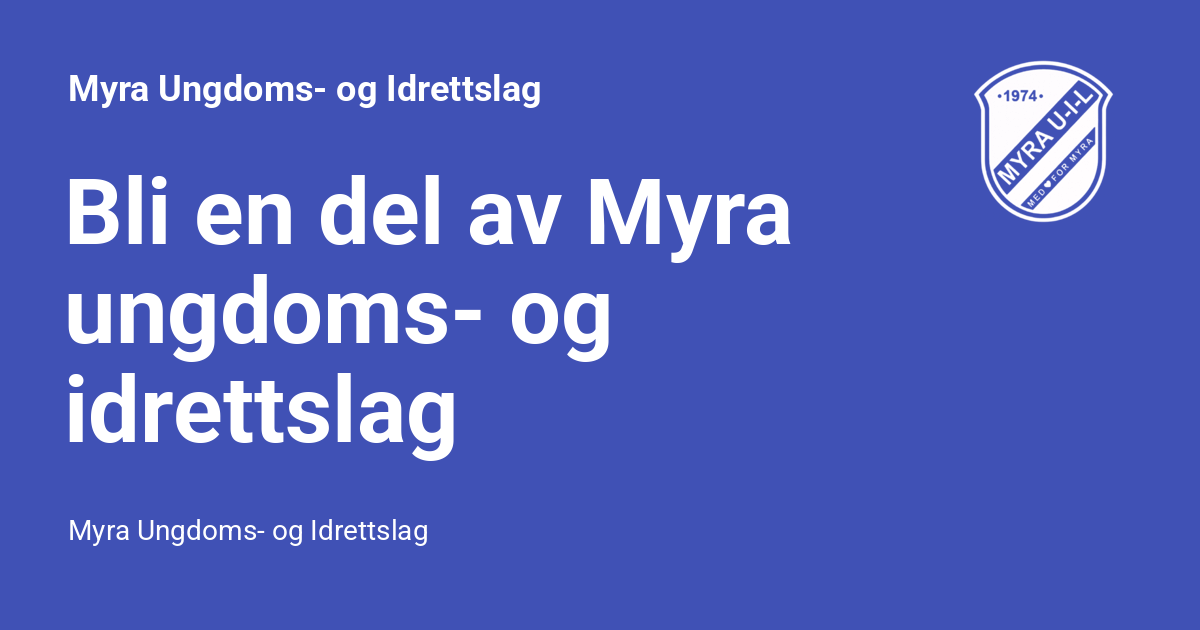
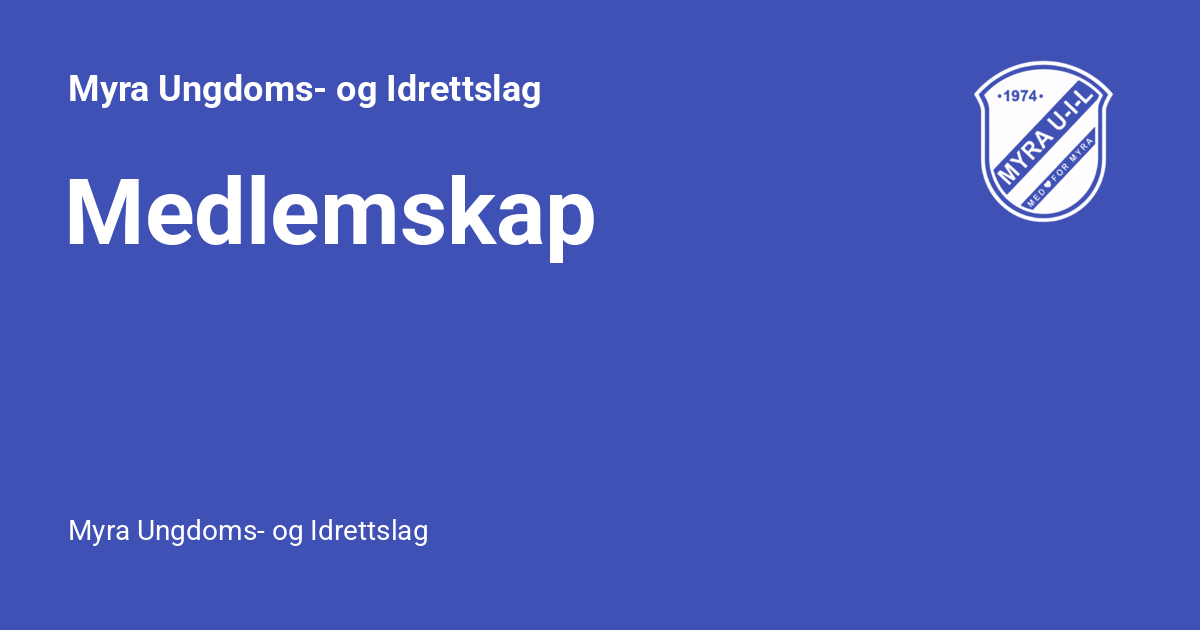
Deployed 459e363 with MkDocs version: 1.6.1

Changed region(s): [[0.0617, 0.2714, 0.6783, 0.4222], [0.0308, 0.4222, 0.5242, 0.573], [0.0308, 0.573, 0.4008, 0.754]]

diff --git a/om/medlemskap/index.html b/om/medlemskap/index.html
@@ -24,7 +24,7 @@
     
     
       
-        <title>Bli en del av Myra ungdoms- og idrettslag - Myra Ungdoms- og Idrettslag</title>
+        <title>Medlemskap - Myra Ungdoms- og Idrettslag</title>
       
     
     
@@ -61,7 +61,7 @@
       
         <meta  property="og:type"  content="website" >
       
-        <meta  property="og:title"  content="Bli en del av Myra ungdoms- og idrettslag - Myra Ungdoms- og Idrettslag" >
+        <meta  property="og:title"  content="Medlemskap - Myra Ungdoms- og Idrettslag" >
       
         <meta  property="og:description"  content="Myra Ungdoms- og Idrettslag" >
       
@@ -77,7 +77,7 @@
       
         <meta  name="twitter:card"  content="summary_large_image" >
       
-        <meta  name="twitter:title"  content="Bli en del av Myra ungdoms- og idrettslag - Myra Ungdoms- og Idrettslag" >
+        <meta  name="twitter:title"  content="Medlemskap - Myra Ungdoms- og Idrettslag" >
       
         <meta  name="twitter:description"  content="Myra Ungdoms- og Idrettslag" >
       
@@ -104,7 +104,7 @@
     <div data-md-component="skip">
       
         
-        <a href="#bli-en-del-av-myra-ungdoms-og-idrettslag" class="md-skip">
+        <a href="#medlemskap" class="md-skip">
           Skip to content
         </a>
       
@@ -137,7 +137,7 @@
         <div class="md-header__topic" data-md-component="header-topic">
           <span class="md-ellipsis">
             
-              Bli en del av Myra ungdoms- og idrettslag
+              Medlemskap
             
           </span>
         </div>
@@ -722,7 +722,7 @@
           
   
   <span class="md-ellipsis">
-    Bli en del av Myra ungdoms- og idrettslag
+    Medlemskap
     
   </span>
   
@@ -734,7 +734,7 @@
         
   
   <span class="md-ellipsis">
-    Bli en del av Myra ungdoms- og idrettslag
+    Medlemskap
     
   </span>
   
@@ -1072,7 +1072,7 @@
   
 
 
-<h1 id="bli-en-del-av-myra-ungdoms-og-idrettslag">Bli en del av Myra ungdoms- og idrettslag<a class="headerlink" href="#bli-en-del-av-myra-ungdoms-og-idrettslag" title="Permanent link">&para;</a></h1>
+<h1 id="medlemskap">Medlemskap<a class="headerlink" href="#medlemskap" title="Permanent link">&para;</a></h1>
 <p>Et idrettslag for alle! Bli medlem enkelt og raskt via Norges idrettsforbunds digitale innmeldingsløsning.</p>
 <h2 id="i-lsningen-kan-du">I løsningen kan du:<a class="headerlink" href="#i-lsningen-kan-du" title="Permanent link">&para;</a></h2>
 <ul>

diff --git a/404.html b/404.html
@@ -669,7 +669,7 @@
         
   
   <span class="md-ellipsis">
-    Bli en del av Myra ungdoms- og idrettslag
+    Medlemskap
     
   </span>
   

diff --git a/aktiviteter/barneidrett/index.html b/aktiviteter/barneidrett/index.html
@@ -723,7 +723,7 @@
         
   
   <span class="md-ellipsis">
-    Bli en del av Myra ungdoms- og idrettslag
+    Medlemskap
     
   </span>
   

diff --git a/aktiviteter/bli-sterk/index.html b/aktiviteter/bli-sterk/index.html
@@ -723,7 +723,7 @@
         
   
   <span class="md-ellipsis">
-    Bli en del av Myra ungdoms- og idrettslag
+    Medlemskap
     
   </span>
   

diff --git a/aktiviteter/fotball/index.html b/aktiviteter/fotball/index.html
@@ -723,7 +723,7 @@
         
   
   <span class="md-ellipsis">
-    Bli en del av Myra ungdoms- og idrettslag
+    Medlemskap
     
   </span>
   

diff --git a/aktiviteter/frisbeegolf/index.html b/aktiviteter/frisbeegolf/index.html
@@ -723,7 +723,7 @@
         
   
   <span class="md-ellipsis">
-    Bli en del av Myra ungdoms- og idrettslag
+    Medlemskap
     
   </span>
   

diff --git a/aktiviteter/index.html b/aktiviteter/index.html
@@ -711,7 +711,7 @@
         
   
   <span class="md-ellipsis">
-    Bli en del av Myra ungdoms- og idrettslag
+    Medlemskap
     
   </span>
   

diff --git a/aktiviteter/innebandy/index.html b/aktiviteter/innebandy/index.html
@@ -723,7 +723,7 @@
         
   
   <span class="md-ellipsis">
-    Bli en del av Myra ungdoms- og idrettslag
+    Medlemskap
     
   </span>
   

diff --git a/aktiviteter/klubb/index.html b/aktiviteter/klubb/index.html
@@ -723,7 +723,7 @@
         
   
   <span class="md-ellipsis">
-    Bli en del av Myra ungdoms- og idrettslag
+    Medlemskap
     
   </span>
   

diff --git a/aktiviteter/leikarring/index.html b/aktiviteter/leikarring/index.html
@@ -723,7 +723,7 @@
         
   
   <span class="md-ellipsis">
-    Bli en del av Myra ungdoms- og idrettslag
+    Medlemskap
     
   </span>
   

diff --git a/aktiviteter/ski/index.html b/aktiviteter/ski/index.html
@@ -723,7 +723,7 @@
         
   
   <span class="md-ellipsis">
-    Bli en del av Myra ungdoms- og idrettslag
+    Medlemskap
     
   </span>
   

diff --git a/aktiviteter/volleyball/index.html b/aktiviteter/volleyball/index.html
@@ -723,7 +723,7 @@
         
   
   <span class="md-ellipsis">
-    Bli en del av Myra ungdoms- og idrettslag
+    Medlemskap
     
   </span>
   
